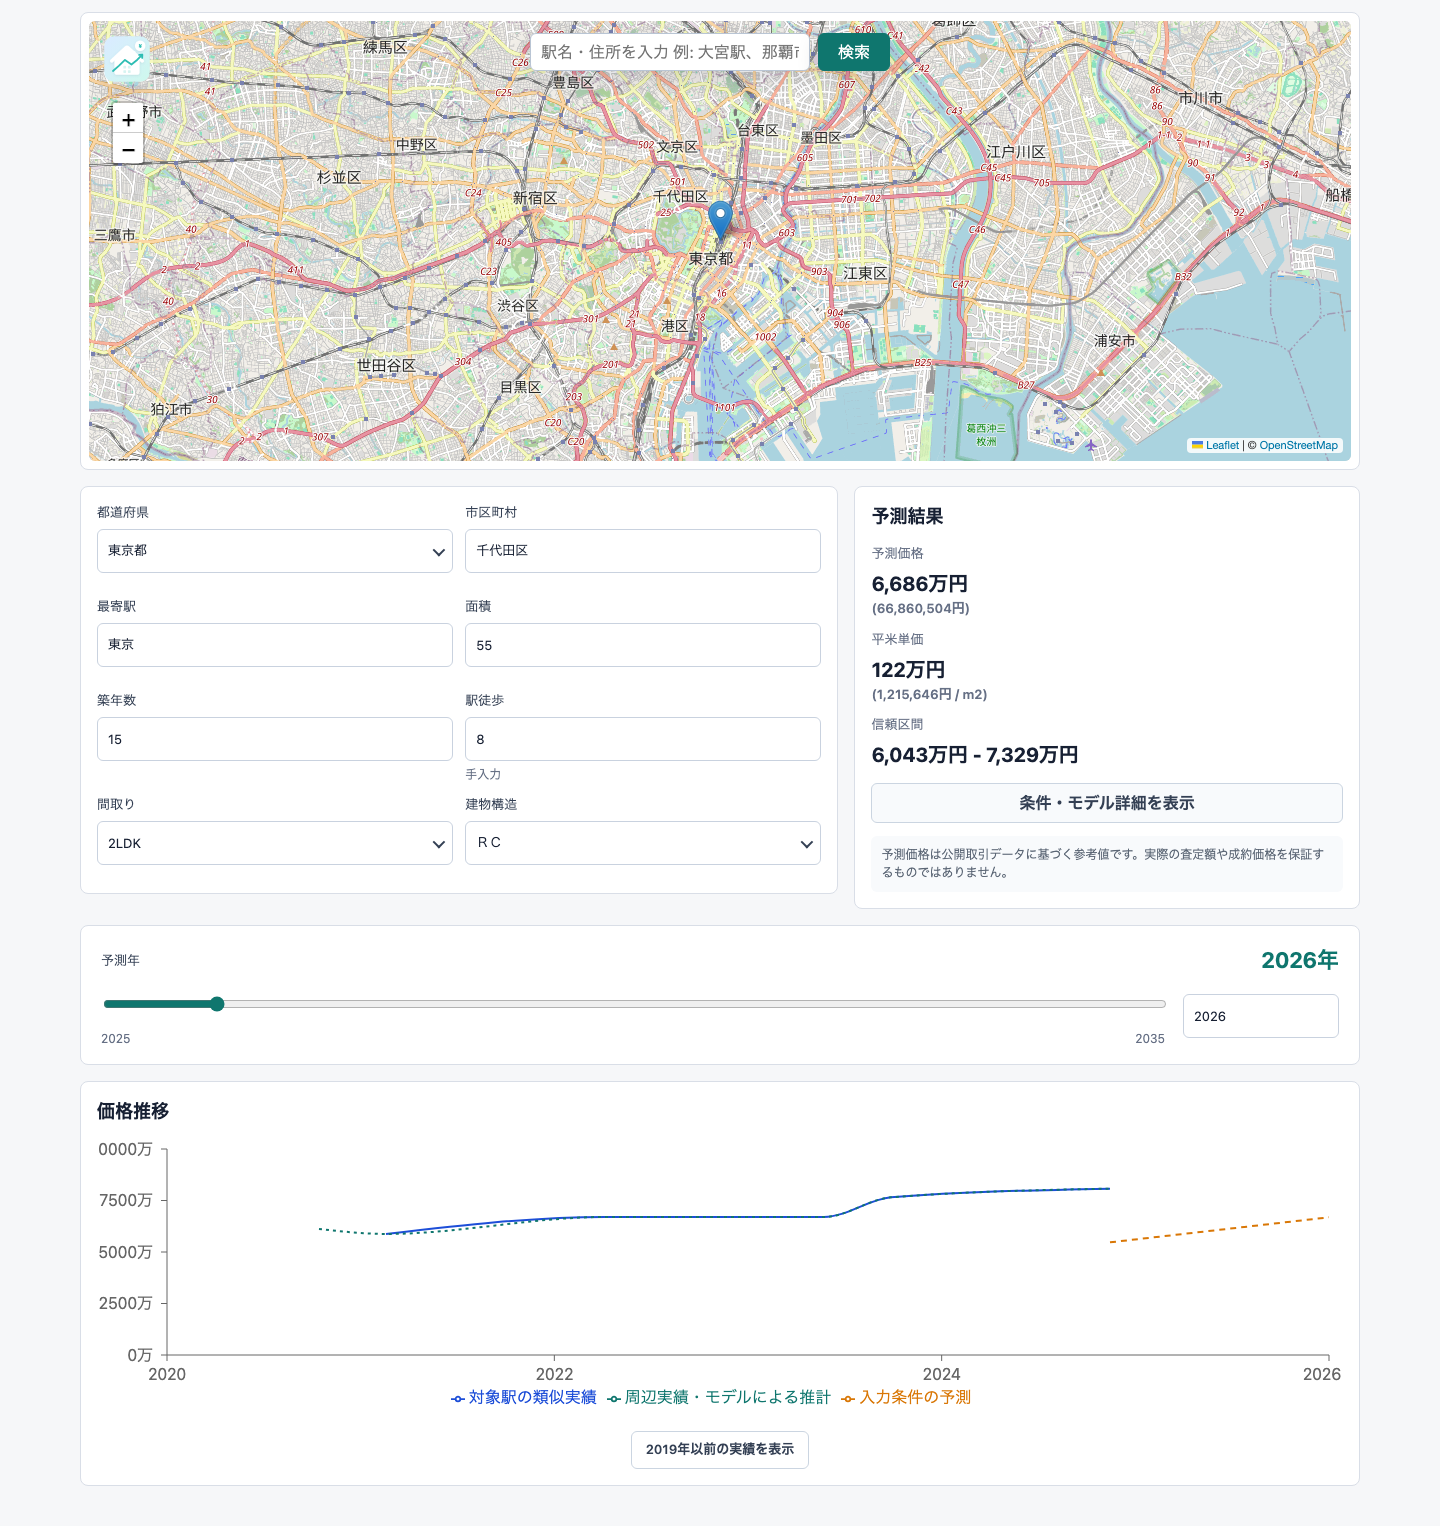
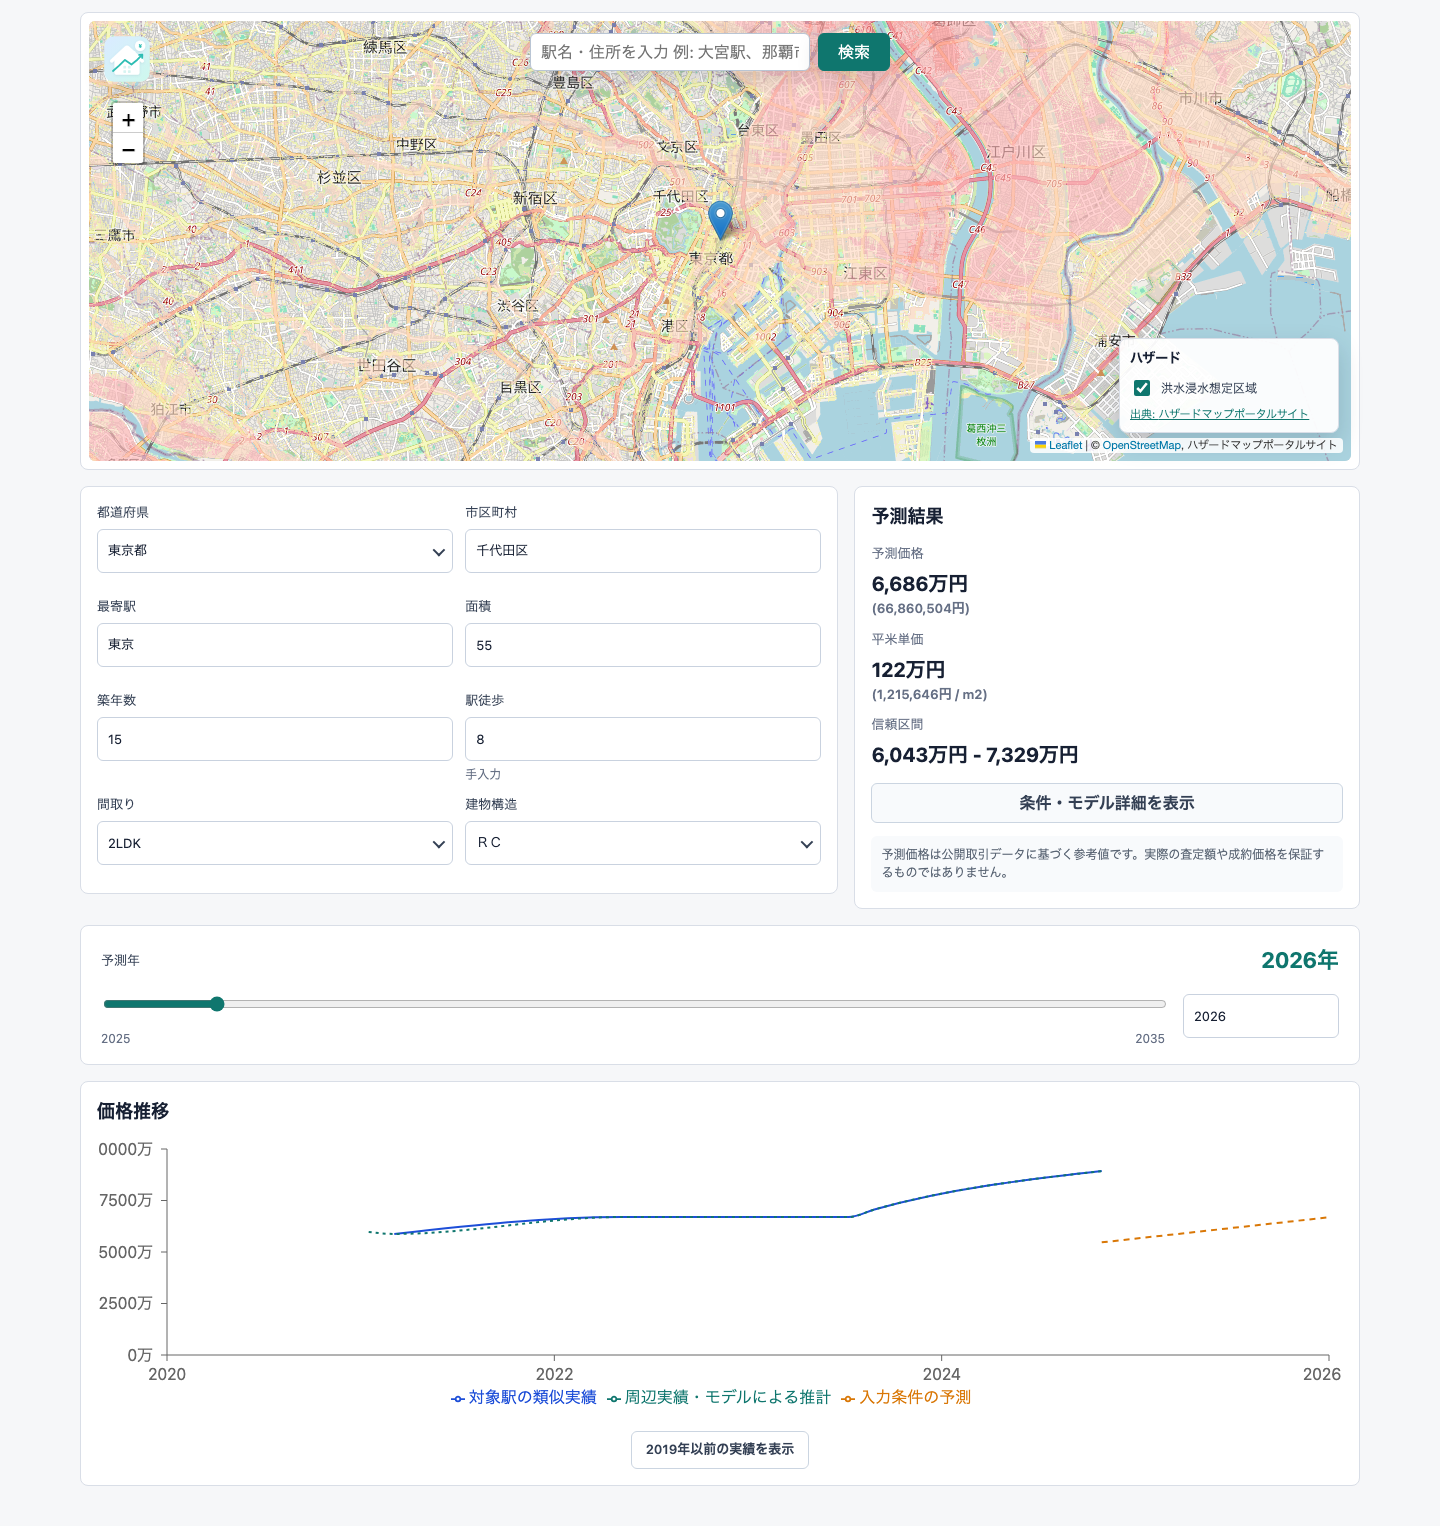
ハザードレイヤートグルを追加

diff --git a/frontend/src/features/map/PropertyMap.tsx b/frontend/src/features/map/PropertyMap.tsx
@@ -6,6 +6,30 @@ import markerIconUrl from "leaflet/dist/images/marker-icon.png";
 import markerShadowUrl from "leaflet/dist/images/marker-shadow.png";
 import { searchPlace } from "../../services/geocodingService";
 
+type HazardLayerDefinition = {
+  id: string;
+  name: string;
+  type: "raster";
+  tileUrl: string | null;
+  portalUrl: string;
+  minZoom: number;
+  maxZoom: number;
+  defaultOpacity: number;
+  enabled: boolean;
+  legendLabel: string;
+};
+
+type HazardLayerConfig = {
+  source: {
+    name: string;
+    url: string;
+    dataCopyrightUrl: string;
+    attribution: string;
+  };
+  disclaimer: string;
+  layers: HazardLayerDefinition[];
+};
+
 type Props = {
   lat: number | null;
   lon: number | null;
@@ -52,6 +76,14 @@ export function PropertyMap({ lat, lon, onSelect }: Props) {
   const [searchCenter, setSearchCenter] = useState<LatLngExpression | null>(null);
   const [searchStatus, setSearchStatus] = useState("");
   const [isSearching, setIsSearching] = useState(false);
+  const [hazardConfig, setHazardConfig] = useState<HazardLayerConfig | null>(null);
+  const [activeHazardLayerIds, setActiveHazardLayerIds] = useState<Set<string>>(new Set());
+
+  const hazardLayers = useMemo(
+    () => hazardConfig?.layers.filter((layer) => layer.type === "raster" && layer.tileUrl) ?? [],
+    [hazardConfig]
+  );
+  const activeHazardLayers = hazardLayers.filter((layer) => activeHazardLayerIds.has(layer.id));
 
   useEffect(() => {
     if (!searchStatus) {
@@ -60,6 +92,53 @@ export function PropertyMap({ lat, lon, onSelect }: Props) {
     const timer = window.setTimeout(() => setSearchStatus(""), 3000);
     return () => window.clearTimeout(timer);
   }, [searchStatus]);
+
+  useEffect(() => {
+    let disposed = false;
+
+    async function loadHazardLayers() {
+      try {
+        const response = await fetch("./hazards/layers.json");
+        if (!response.ok) {
+          return;
+        }
+        const config = (await response.json()) as HazardLayerConfig;
+        if (disposed) {
+          return;
+        }
+        setHazardConfig(config);
+        setActiveHazardLayerIds(
+          new Set(
+            config.layers
+              .filter((layer) => layer.enabled && layer.tileUrl)
+              .map((layer) => layer.id)
+          )
+        );
+      } catch {
+        if (!disposed) {
+          setHazardConfig(null);
+        }
+      }
+    }
+
+    loadHazardLayers();
+
+    return () => {
+      disposed = true;
+    };
+  }, []);
+
+  function toggleHazardLayer(layerId: string) {
+    setActiveHazardLayerIds((current) => {
+      const next = new Set(current);
+      if (next.has(layerId)) {
+        next.delete(layerId);
+      } else {
+        next.add(layerId);
+      }
+      return next;
+    });
+  }
 
   function handleMapSelect(nextLat: number, nextLon: number) {
     setSearchStatus("");
@@ -113,9 +192,38 @@ export function PropertyMap({ lat, lon, onSelect }: Props) {
             url="https://{s}.tile.openstreetmap.org/{z}/{x}/{y}.png"
           />
           <MapMover center={searchCenter} />
+          {activeHazardLayers.map((layer, index) => (
+            <TileLayer
+              key={layer.id}
+              attribution={hazardConfig?.source.attribution}
+              maxZoom={layer.maxZoom}
+              minZoom={layer.minZoom}
+              opacity={layer.defaultOpacity}
+              url={layer.tileUrl ?? ""}
+              zIndex={300 + index}
+            />
+          ))}
           <ClickHandler onSelect={handleMapSelect} />
           {lat !== null && lon !== null ? <Marker icon={propertyMarkerIcon} position={[lat, lon]} /> : null}
         </MapContainer>
+        {hazardLayers.length > 0 && hazardConfig ? (
+          <div className="hazard-layer-control" aria-label="ハザードレイヤー" data-testid="hazard-layer-control">
+            <strong>ハザード</strong>
+            {hazardLayers.map((layer) => (
+              <label className="hazard-layer-toggle" key={layer.id}>
+                <input
+                  type="checkbox"
+                  checked={activeHazardLayerIds.has(layer.id)}
+                  onChange={() => toggleHazardLayer(layer.id)}
+                />
+                <span>{layer.name}</span>
+              </label>
+            ))}
+            <a href={hazardConfig.source.dataCopyrightUrl} target="_blank" rel="noreferrer">
+              出典: {hazardConfig.source.attribution}
+            </a>
+          </div>
+        ) : null}
       </div>
     </section>
   );

diff --git a/frontend/src/styles.css b/frontend/src/styles.css
@@ -245,6 +245,50 @@ h2 {
   box-shadow: 0 8px 22px rgb(15 23 42 / 14%);
 }
 
+.hazard-layer-control {
+  position: absolute;
+  z-index: 520;
+  right: 12px;
+  bottom: 28px;
+  display: grid;
+  gap: 8px;
+  width: min(220px, calc(100% - 24px));
+  border: 1px solid #d9dee7;
+  border-radius: 8px;
+  background: rgb(255 255 255 / 94%);
+  padding: 10px;
+  color: #344054;
+  font-size: 12px;
+  box-shadow: 0 10px 26px rgb(15 23 42 / 16%);
+}
+
+.hazard-layer-control strong {
+  color: #172033;
+  font-size: 13px;
+}
+
+.hazard-layer-toggle {
+  display: flex;
+  min-height: 0;
+  align-items: center;
+  gap: 8px;
+  color: #344054;
+  font-size: 12px;
+}
+
+.hazard-layer-toggle input {
+  width: 16px;
+  min-height: 16px;
+  accent-color: #0f766e;
+}
+
+.hazard-layer-control a {
+  color: #0f766e;
+  font-size: 11px;
+  line-height: 1.35;
+  overflow-wrap: anywhere;
+}
+
 .form-grid {
   display: grid;
   grid-template-columns: repeat(2, minmax(0, 1fr));
@@ -769,6 +813,13 @@ dd {
     position: relative;
     height: 100%;
     overflow: hidden;
+  }
+
+  .hazard-layer-control {
+    right: 10px;
+    bottom: 82px;
+    width: min(190px, calc(100% - 20px));
+    padding: 8px;
   }
 
   .sheet-stack {

diff --git a/frontend/e2e/screenshots.spec.ts b/frontend/e2e/screenshots.spec.ts
@@ -8,6 +8,11 @@ import { PredictionPage } from "./pages/prediction-page";
 
 const screenshotsDir = path.resolve(process.cwd(), "../docs/images");
 
+test.skip(
+  process.env.README_SCREENSHOTS !== "1",
+  "README用スクリーンショット生成コマンドでだけ実行する"
+);
+
 async function prepareReadmeView(page: PredictionPage) {
   await mockSuccessfulGeocoding(page.page);
   await page.goto();

diff --git a/TODO.md b/TODO.md
@@ -81,8 +81,8 @@ P3 = 将来拡張または検証後に着手するもの
 
 * [x] `docs/hazard-maps.md` をもとにMVP実装範囲を確定する
 * [x] 重ねるハザードマップのラスタタイルレイヤー定義を `frontend/public/hazards/layers.json` に作成する
-* [ ] Leafletにハザードレイヤートグルを追加する
-* [ ] ハザードレイヤーの出典表記をUIに表示する
+* [x] Leafletにハザードレイヤートグルを追加する
+* [x] ハザードレイヤーの出典表記をUIに表示する
 * [ ] 災害リスクカードのUIを作り、価格予測カードとは分離して表示する
 * [ ] `HazardType`、`HazardDetail`、`HazardAssessmentResponse` のフロント型を追加する
 * [ ] MVPの地点判定方式をCloudflare Workers中継APIにするか、静的H3 JSONにするか決める
